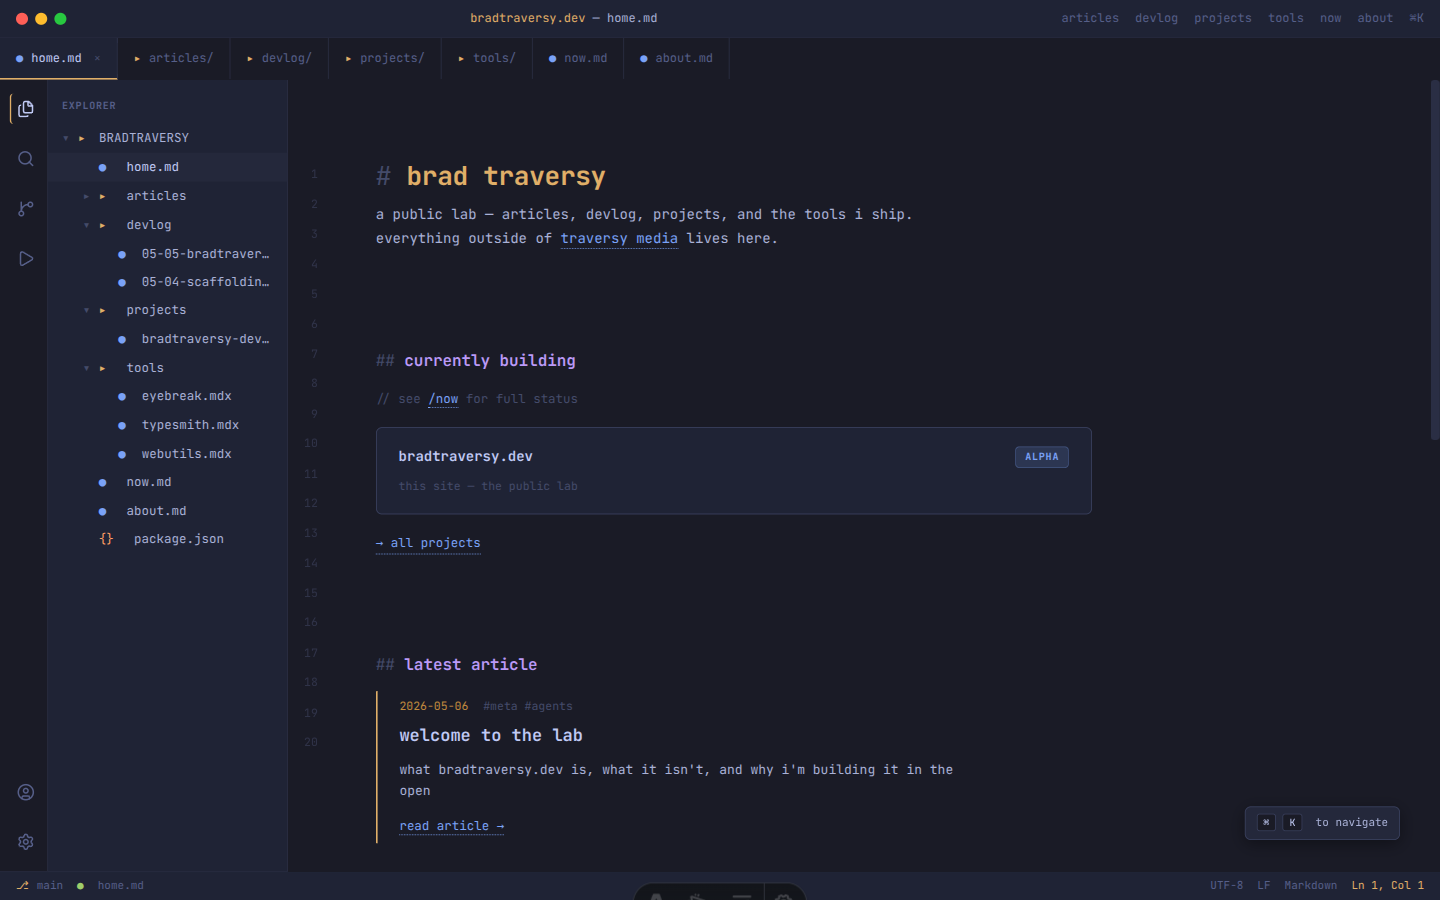
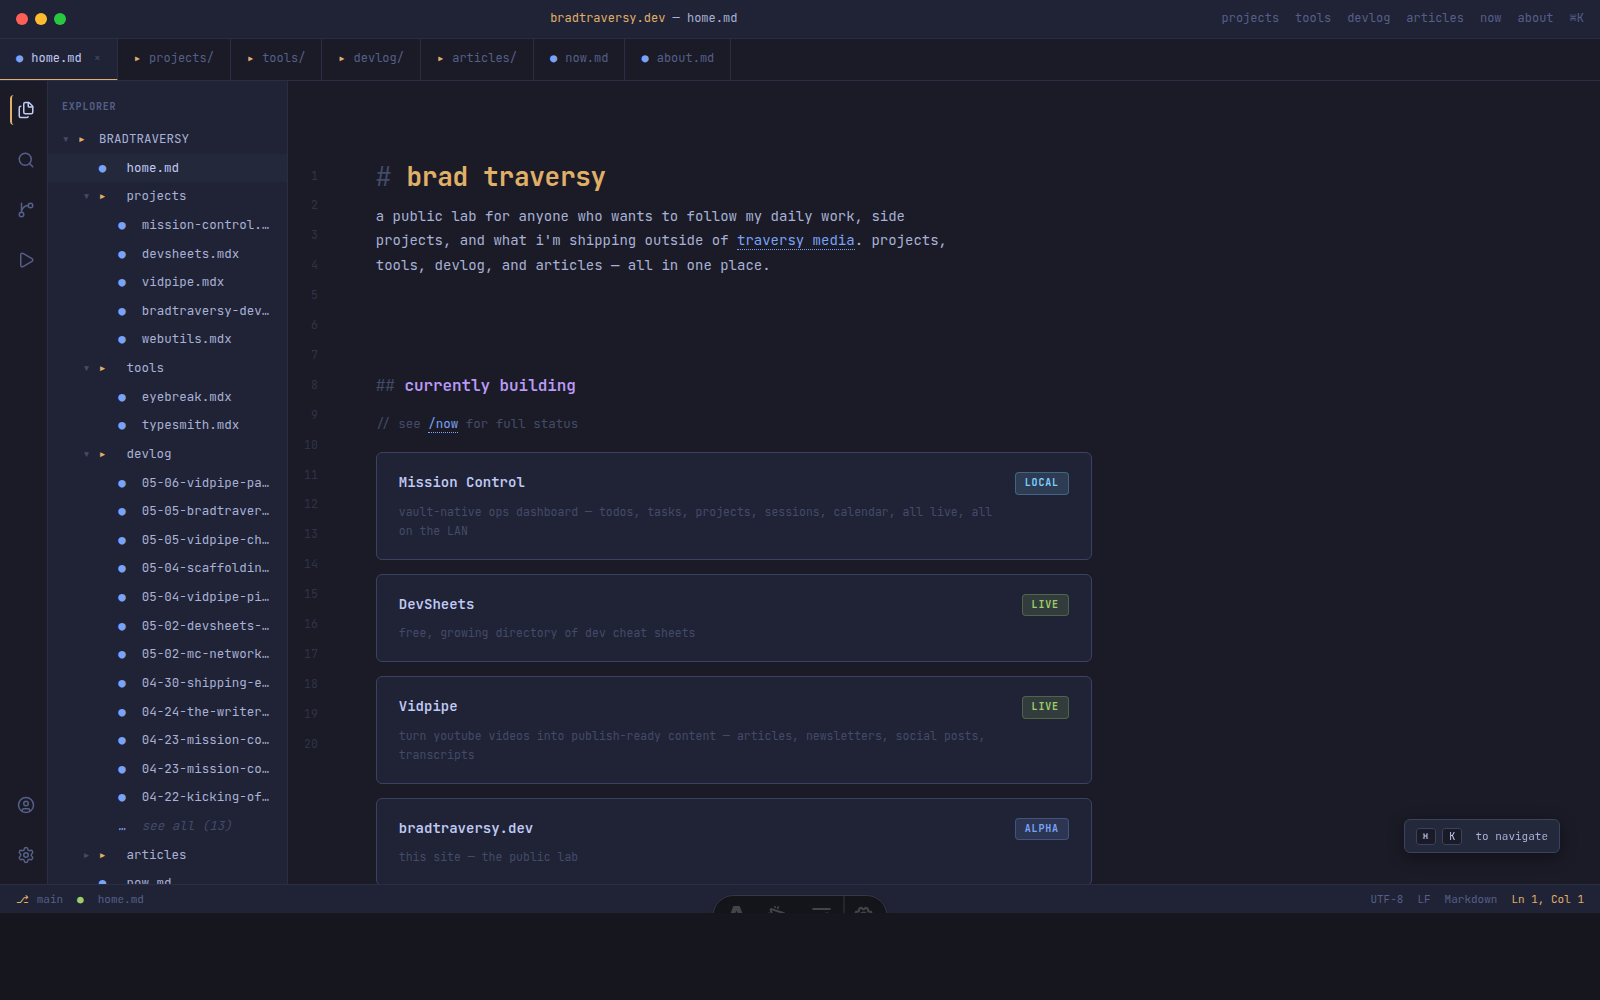
content: reorder content modes (projects/tools first), update home tagline + README + screenshot

diff --git a/README.md b/README.md
@@ -1,6 +1,6 @@
 # bradtraversy.dev
 
-my public lab — articles, devlog, projects, and tools. everything outside of [traversy media](https://traversymedia.com) lives here.
+my public lab — projects, tools, devlog, and articles. built for anyone who wants to follow my daily work, side projects, and what i'm shipping outside of [traversy media](https://traversymedia.com).
 
 ![bradtraversy.dev — home](docs/screenshots/home.png)
 
@@ -8,10 +8,10 @@ my public lab — articles, devlog, projects, and tools. everything outside of [
 
 a static site that combines four things on different cadences:
 
-- **articles** — polished, long-form, 1–4 a month
-- **devlog** — short, raw, posted whenever something ships or breaks
 - **projects** — software i'm working on, with their own detail pages
 - **tools** — one-day utilities, scaling to a 50+ catalog over time
+- **devlog** — short, raw, posted whenever something ships or breaks
+- **articles** — polished, long-form, 1–4 a month
 
 it's the public surface for the work i do outside of [traversy media](https://traversymedia.com) — distinct from the joint youtube/courses brand, branded under my personal name.
 
@@ -50,10 +50,10 @@ without it, the form returns `500` but everything else works.
 ```
 src/
   content/
-    articles/    # MDX, slug = filename
-    devlog/      # MDX, slug = YYYY-MM-DD-kebab-title
     projects/    # MDX, one per major project
     tools/       # MDX, one per one-day utility
+    devlog/      # MDX, slug = YYYY-MM-DD-kebab-title
+    articles/    # MDX, slug = filename
   components/    # astro components
   layouts/       # base + per-content-type layouts
   pages/         # routes